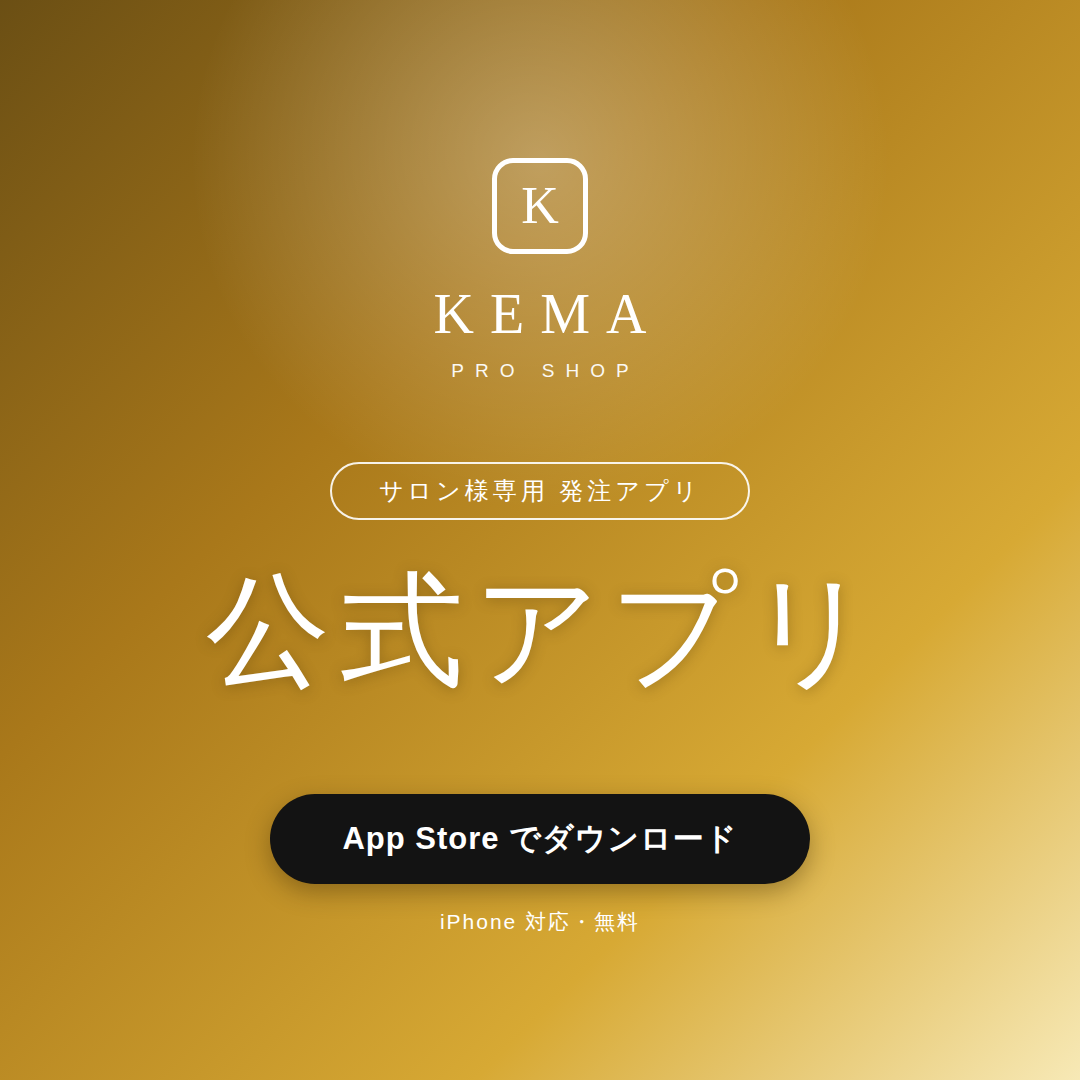
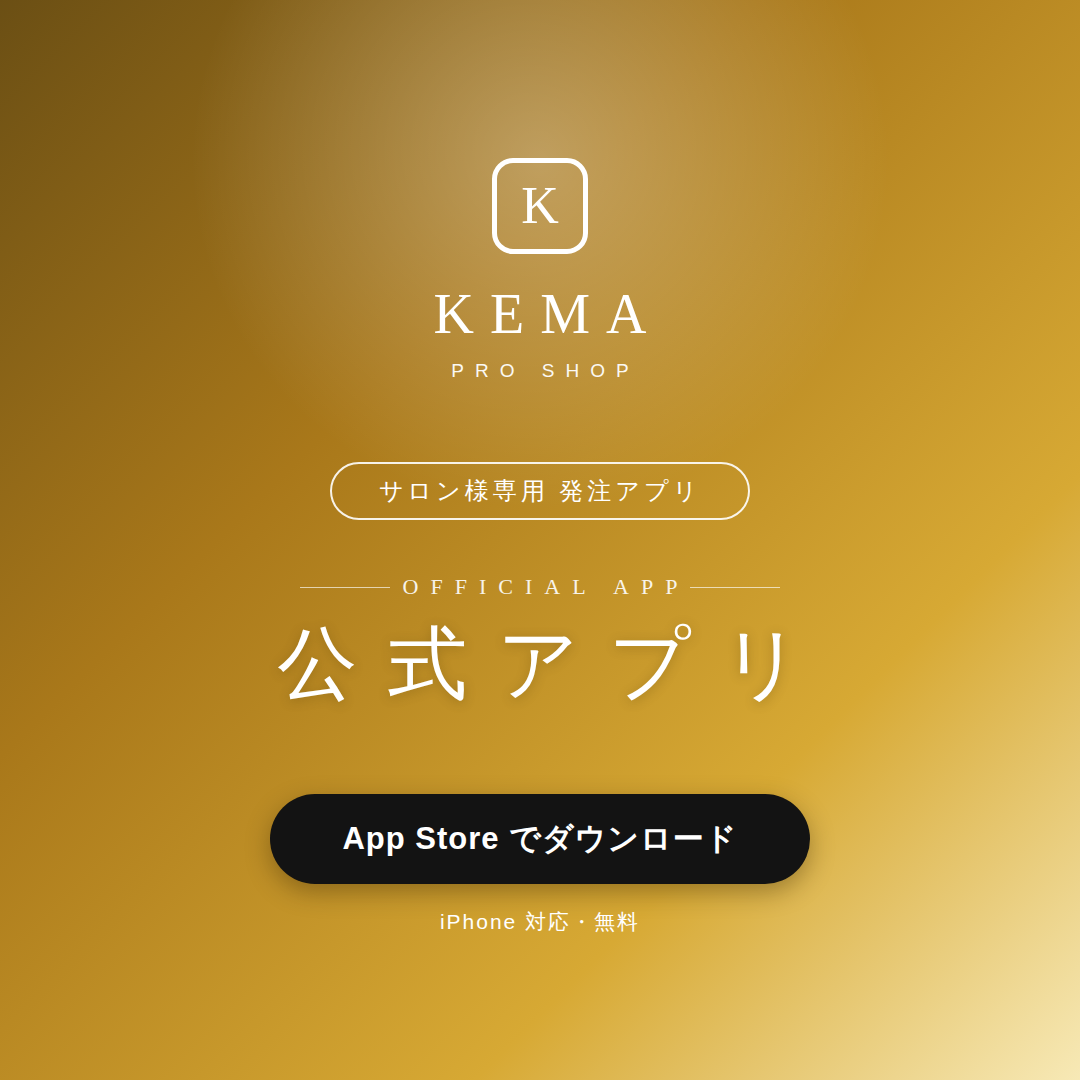
ボタンバナーの見出しを小さめ・広字間のエレガントな組みに変更
Claude-Session: https://claude.ai/code/session_01KJvBPq7YGhAqo9R4Cea1BT

Changed region(s): [[0.1833, 0.5194, 0.55, 0.6417], [0.5806, 0.5194, 0.7639, 0.6417], [0.7639, 0.5194, 0.7944, 0.6111]]

diff --git a/docs/bcart-ios-app/app-banner-button.html b/docs/bcart-ios-app/app-banner-button.html
@@ -55,13 +55,25 @@
   }
 
   /* 見出し */
-  .headline {
-    position: absolute; left: 0; top: 558px; width: 1080px; text-align: center;
+  .headline-en {
+    position: absolute; left: 0; top: 574px; width: 1080px; text-align: center;
     font-family: "kinuta-mincho-stdn", "Noto Serif JP", serif;
-    font-weight: 400; font-size: 124px; line-height: 1.2;
-    color: #ffffff; letter-spacing: 10px; text-indent: 10px;
-    text-shadow: 0 2px 14px rgba(80, 55, 10, 0.35);
+    font-weight: 400; font-size: 22px; letter-spacing: 12px; text-indent: 12px;
+    color: #ffffff; opacity: 0.9;
   }
+  .headline {
+    position: absolute; left: 0; top: 616px; width: 1080px; text-align: center;
+    font-family: "kinuta-mincho-stdn", "Noto Serif JP", serif;
+    font-weight: 400; font-size: 80px; line-height: 1.2;
+    color: #ffffff; letter-spacing: 30px; text-indent: 30px;
+    text-shadow: 0 2px 12px rgba(80, 55, 10, 0.30);
+  }
+  .hairline {
+    position: absolute; top: 587px; width: 90px; height: 1px;
+    background: rgba(255,255,255,0.65);
+  }
+  .hairline.l { left: 300px; }
+  .hairline.r { left: 690px; }
 
   /* CTAピル */
   .cta {
@@ -90,6 +102,9 @@
 
   <div class="label">サロン様専用 発注アプリ</div>
 
+  <div class="hairline l"></div>
+  <div class="hairline r"></div>
+  <div class="headline-en">OFFICIAL APP</div>
   <div class="headline">公式アプリ</div>
 
   <div class="cta">App Store でダウンロード</div>
